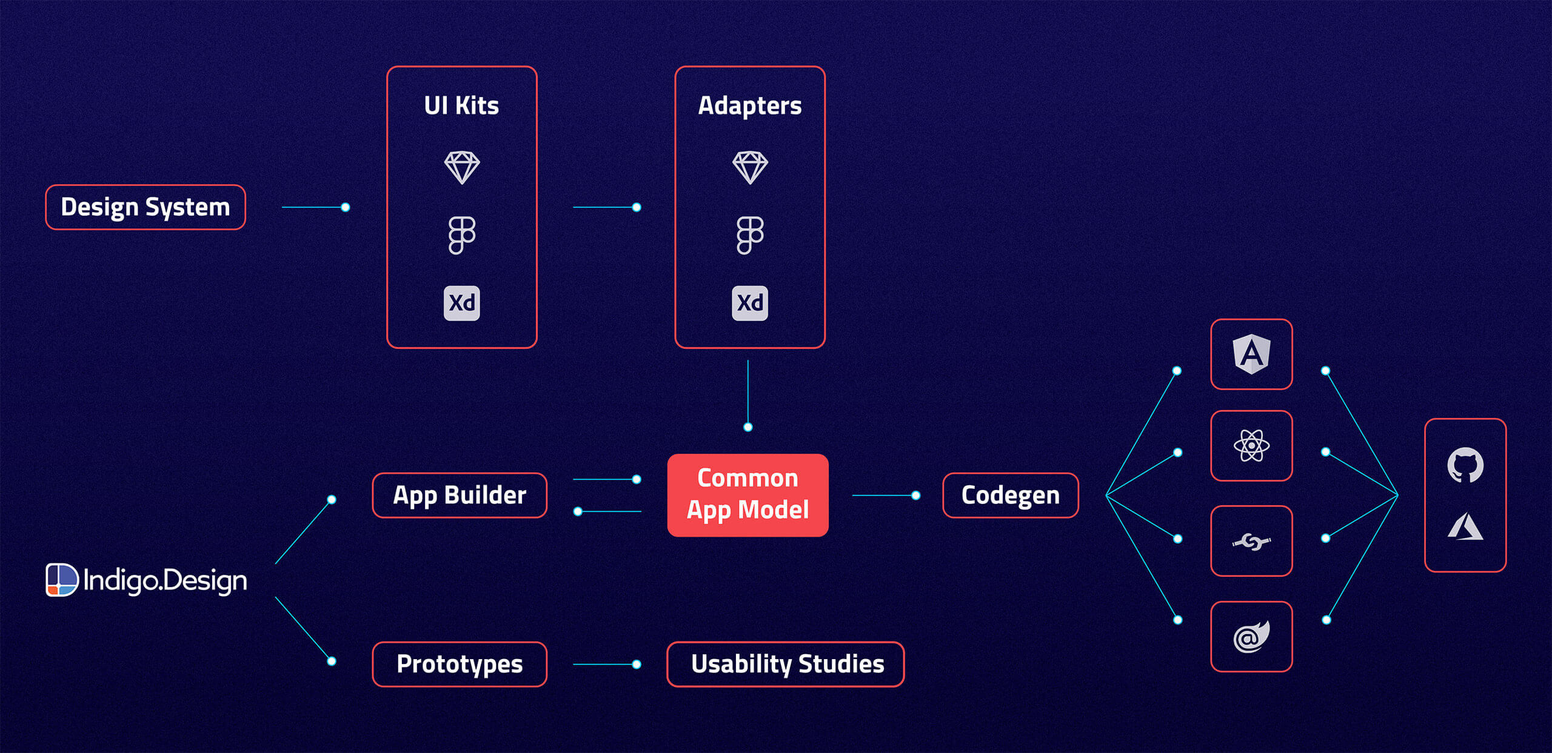
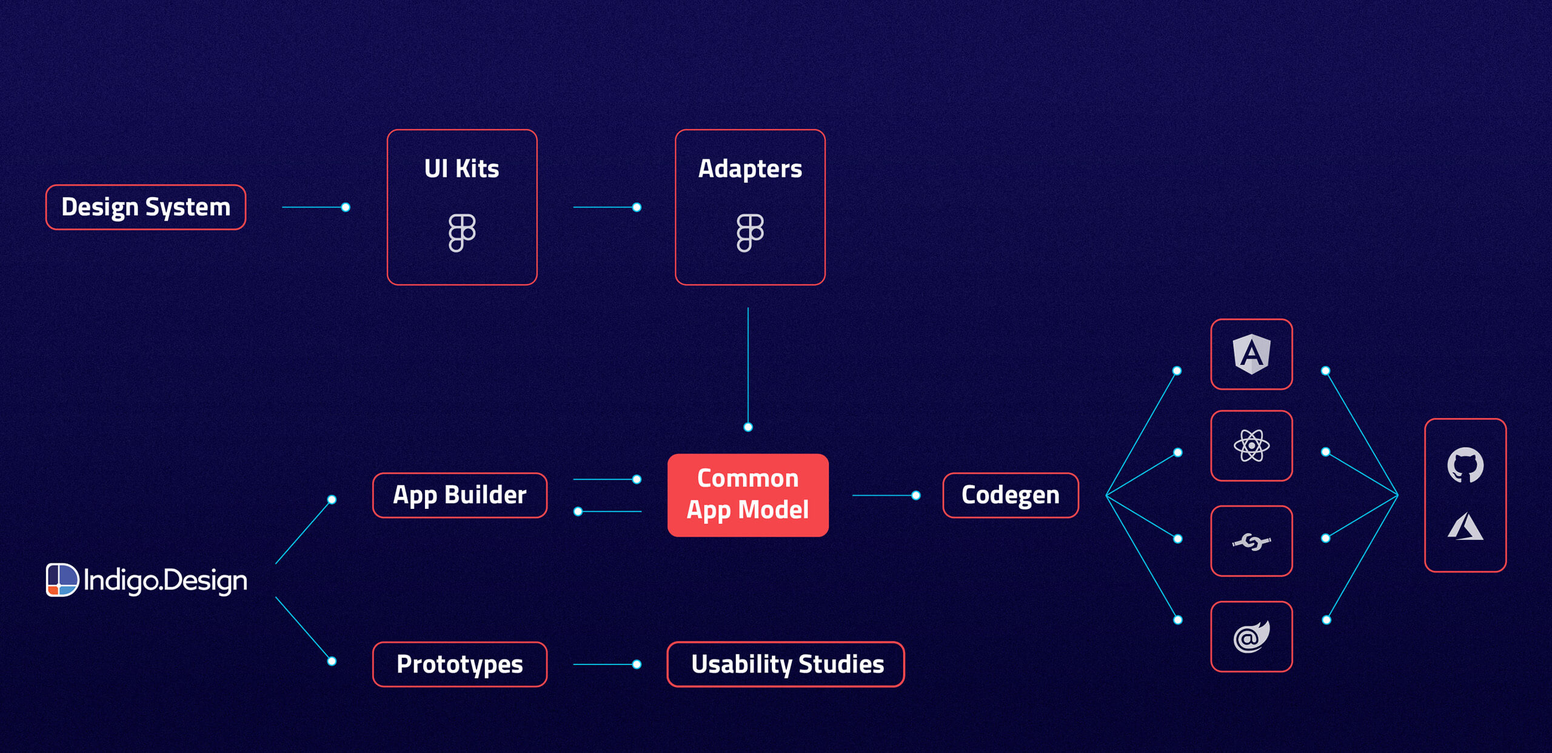
[35886] Overview Pages/Getting Started: Revise the text and get rid of Sketch and Adobe XD references, replace images

diff --git a/en/getting-started.md b/en/getting-started.md
@@ -1,7 +1,7 @@
 ---
 title: Getting Started - Indigo.Design
 _description: A quick overview of Indigo.Design and how it can help you to go from design to code seamlessly. 
-_keywords: Design Systems, Design Systems UX, UI kit, Sketch, Ignite UI for Angular, Sketch to Angular, Sketch to Angular, Angular, Angular Design System, Export code from Sketch, Design Kits for Angular, Sketch HTML, Sketch to HTML, Sketch UI kits, prototypes, user-videos, code-generation
+_keywords: Design Systems, Design Systems UX, UI kit, Ignite UI for Angular, Angular, Angular Design System, Design Kits for Angular, Figma, Figma to Angular, Export code from Figma, Figma HTML, Figma to HTML, Figma UI kits
 ---
 
 # Getting Started
@@ -11,26 +11,26 @@ Indigo.Design is a unified platform for visual design, UX prototyping, code gene
 <img class="responsive-img" src="images/platform-workflow.jpg" srcset="images/platform-workflow@2x.jpg 2x" />
 <p style="width: 100%; text-align:center;">Design to development workflow</p>
 
-Indigo.Design platform consists of three main modules - **UI Kits**, **Prototypes/Usability Studies** and **App Builder**. **The UI Kits (Sketch, Figma, XD)** map to real UI controls and components, with tooling that delivers productivity. Each **UI Kit** implements and follows strictly - Colors, Typography, Sizes and etc. While **Prototypes and Usability Studies** help you measure and improve the user experience of a product or feature. **The App Builder** enables users build their own applications in a web environment and generate **Angular, React, Blazor or Web Components** code from it.
+Indigo.Design platform consists of three main modules - **UI Kits**, **Prototypes/Usability Studies** and **App Builder**. **The UI Kits (Figma)** map to real UI controls and components, with tooling that delivers productivity. Each **UI Kit** implements and follows strictly - Colors, Typography, Sizes and etc. While **Prototypes and Usability Studies** help you measure and improve the user experience of a product or feature. **The App Builder** enables users build their own applications in a web environment and generate **Angular, React, Blazor or Web Components** code from it.
 
 ## How does this work?
 
 Indigo.Design offers key capabilities to support the design-to-development workflow:
 
-1. Create designs in Figma, Sketch or Adobe XD with the `Indigo.Design System`
+1. Create designs in Figma with the `Indigo.Design System`
 2. Share as prototypes to test and collaborate with users via `cloud.indigo.design`
-3. Design your app in `Ignite UI App Builder` using a Figma, Sketch or Adobe XD file and import it via the Plugin or directly use the [Ignite UI App Builder](https://appbuilder.indigo.design/).
-4. Generate Angular, Blazor, React or Web components code from your application in the [Ignite UI App Builder](https://appbuilder.indigo.design/), using the its `Code Generation` service. 
+3. Design your app in `Ignite UI App Builder` using a Figma file and import it via the Plugin or directly use the [Ignite UI App Builder](https://appbuilder.indigo.design/).
+4. Generate Angular, Blazor, React or Web components code from your application in the [Ignite UI App Builder](https://appbuilder.indigo.design/), using its `Code Generation` service. 
 
 ## Indigo.Design System
 
-The design system is a set of libraries for Figma, Sketch and Adobe XD, containing various assets, styles, components, and patterns. Тhe UI components allow you to create intricate user interfaces providing you with the flexibility to use various states and templates. To customize their appearance you may leverage the pre-made palettes, typographies, shadows, icons, and illustrations. And finally, with the provided collection of patterns, such as product details layouts, various forms, and pricing tables among others, you are able to streamline app design assuring the application of best practices in UI and interaction design.
+The design system is a set of libraries for Figma, containing various assets, styles, components, and patterns. Тhe UI components allow you to create intricate user interfaces providing you with the flexibility to use various states and templates. To customize their appearance you may leverage the pre-made palettes, typographies, shadows, icons, and illustrations. And finally, with the provided collection of patterns, such as product details layouts, various forms, and pricing tables among others, you are able to streamline app design assuring the application of best practices in UI and interaction design.
 
 <img class="responsive-img" style="width: 100%; box-shadow: 5px -4px 13px 1px grey" src="images/indigo-design-ui-kit.png" />
 <p style="width: 100%; text-align:center;">Figma UI Kit for Material</p>
 
 ### Figma UI Kit
-The brand-new Figma Indigo.Design UI Kit for Material maps to our Ignite UI for Angular, Blazor and Web Components UI toolset to completely redefine design-development processes. You now get a robust set of components, patterns, styling, and customization options, enabling you to import prototypes or any type of screen designed in Figma and transform it clean code. The best part is that all static designs become interactive, responsive apps with real UI components, branding, and styling – in a single click.
+The Figma Indigo.Design UI Kit for Material maps to our Ignite UI for Angular, Blazor and Web Components UI toolset to completely redefine design-development processes. You now get a robust set of components, patterns, styling, and customization options, enabling you to import prototypes or any type of screen designed in Figma and transform it into clean code. The best part is that all static designs become interactive, responsive apps with real UI components, branding, and styling – in a single click.
 
 <img class="responsive-img" style="width: 100%; box-shadow: 5px -4px 13px 1px grey" src="images/figma-ui-kit.gif" />
 <p style="width: 100%; text-align:center;">Figma UI Kit</p>
@@ -45,45 +45,9 @@ Or through the direct links below:
 > [!Note]
 > There is a difference when using the kit as a free Figma user or Pro user - [topic](https://www.infragistics.com/products/appbuilder/help/ui-kits/figma#using-the-kit-as-a-free-figma-user-vs-pro-user)
 
-### Sketch UI Kit
-Indigo.Design for Sketch offers not one but four library files to its users: one for each of the design languages we support - Material, Bootstrap, Fluent UI, and our very own Indigo. All four libraries support seamless switching between light and dark mode via the [Indigo.Design plugin](./plugins/sketch-plugin.md) and work with any of the predefined or custom color palettes it provides. With this improvement, Sketch users are able to enjoy 100% native look and feel of their components and patterns for the design language of their choice.
-
-<img class="responsive-img" style="width: 100%; box-shadow: 5px -4px 13px 1px grey" src="./images/four-themes.png" />
-<p style="width: 100%; text-align:center;">Sketch UI Kit Four themes</p>
-
-You can download the Sketch Plugin, UI kit and sample apps from the [Download Assets page.](https://cloud.indigo.design/resources/sketch).
-
-Or through the direct links below:
-- [Sketch UI Kit](https://dl.infragistics.com/products/Infragistics/Indigo.Design/ABECAC7231EE434C8CD3DC619BE6F75B/Infragistics_IndigoDesign_UI_Kit.zip)
-- [Plugin for Sketch](https://dl.infragistics.com/products/Infragistics/Indigo.Design/9EB45F5BB4B3442F8B4CECB3EB403063/Infragistics_IndigoDesign_Sketch_Plugin.zip)
-- [Sample apps](https://dl.infragistics.com/products/Infragistics/Indigo.Design/Samples/Infragistics_IndigoDesign_Sample_Apps.zip)
-
-### Adobe XD UI Kit
-
-Crafted from the ground-up to equip designers with a modern and easy-to-use arsenal of tools which allow them to design wireframes and apps, Adobe XD is one of the popular vector graphic design platforms in the market today. Along with wireframe features, designers can create hi-fidelity prototypes, collaborate across teams through the design process, configure animations and collect feedback.
-
-> [!NOTE]
-> Download [Adobe XD UI Kit](https://assets.adobe.com/public/c1a672c5-49e6-4df1-4d32-1c37fa234f1e), [Plugin for Adobe XD](https://exchange.adobe.com/creativecloud/plugindetails.html/app/cc/92c7dec5) and [Sample apps](https://download.infragistics.com/products/Infragistics/Indigo.Design/Samples/Infragistics_IndigoDesign_Sample_Apps_XD.zip)
-
-<img class="responsive-img" style="width: 100%; box-shadow: 5px -4px 13px 1px grey" src="images/app-is-ready-xd.png" />
-<p style="width: 100%; text-align:center;">Adobe XD Plugin</p>
-
-## Prototyping & Usability Testing
-
-To get feedback on your designs, use cloud.indigo.design to import the Sketch document and share it as an interactive prototype. This will allow your stakeholders to view your prototype on any device and give feedback via comments.
-
-Learn more with this guidance topic:
-
-[Create prototypes in the cloud](prototyping/creating-a-prototype.md)
-
-If you want to watch how users use your prototype to complete specific tasks, and also collect metrics like time on task and completion rate, set up a usability test using the published prototype.
-
-Learn more with this guidance topic:
-[Set up a user test](prototyping/set-up-a-user-test.md)
-
 ## Design apps with App Builder
 
-The App Builder module lets you design a single page application using a design file (Figma, Sketch or Adobe XD) as a starting point or create it from scratch. The App Builder includes a set of major features, enabling users to use real UI components, global theming, external data sources.
+The App Builder module lets you design a single page application using a design file (Figma) as a starting point or create it from scratch. The App Builder includes a set of major features, enabling users to use real UI components, global theming, external data sources.
 
 <img class="responsive-img" style="width: 100%; box-shadow: 5px -4px 13px 1px grey" src="images/app-builder-canvas.png" />
 <p style="width: 100%; text-align:center;">Design canvas</p>
@@ -104,7 +68,7 @@ Create app from sample application:
 
 ## Generate Code
 
-Once ready with the design of your application in Ignite UI App Builder, you can easily generate Angular, Blazor or Web Components code from it. The generated code can be directly uploaded to a repository in GitHub or downloaded locally as a file package. The components used in the generated application are powered by [Ignite UI for Angular UI framework](https://www.infragistics.com/products/ignite-ui-angular)
+Once ready with the design of your application in Ignite UI App Builder, you can easily generate Angular, Blazor, React or Web Components code from it. The generated code can be directly uploaded to a repository in GitHub or downloaded locally as a file package. The components used in the generated application are powered by [Ignite UI for Angular UI framework](https://www.infragistics.com/products/ignite-ui-angular)
 
 Learn more:
 
@@ -112,6 +76,6 @@ Learn more:
 - [Blazor code generation](https://www.infragistics.com/products/appbuilder/help/blazor-support)
 - [Web Components code generation](https://www.infragistics.com/products/appbuilder/help/web-components-support)
 
-If you are brand new to Indigo.Design learn more about how to create your first artboard with it:
-* [Create your first Sketch artboard](creating-artboard-sketch.md)
-* [Create your first Adobe XD artboard](creating-artboard-adobexd.md)
+If you are brand new to Indigo.Design learn more about how to create your first frame with it:
+* [Create your first Figma frame](creating-a-frame-in-figma.md)
+
